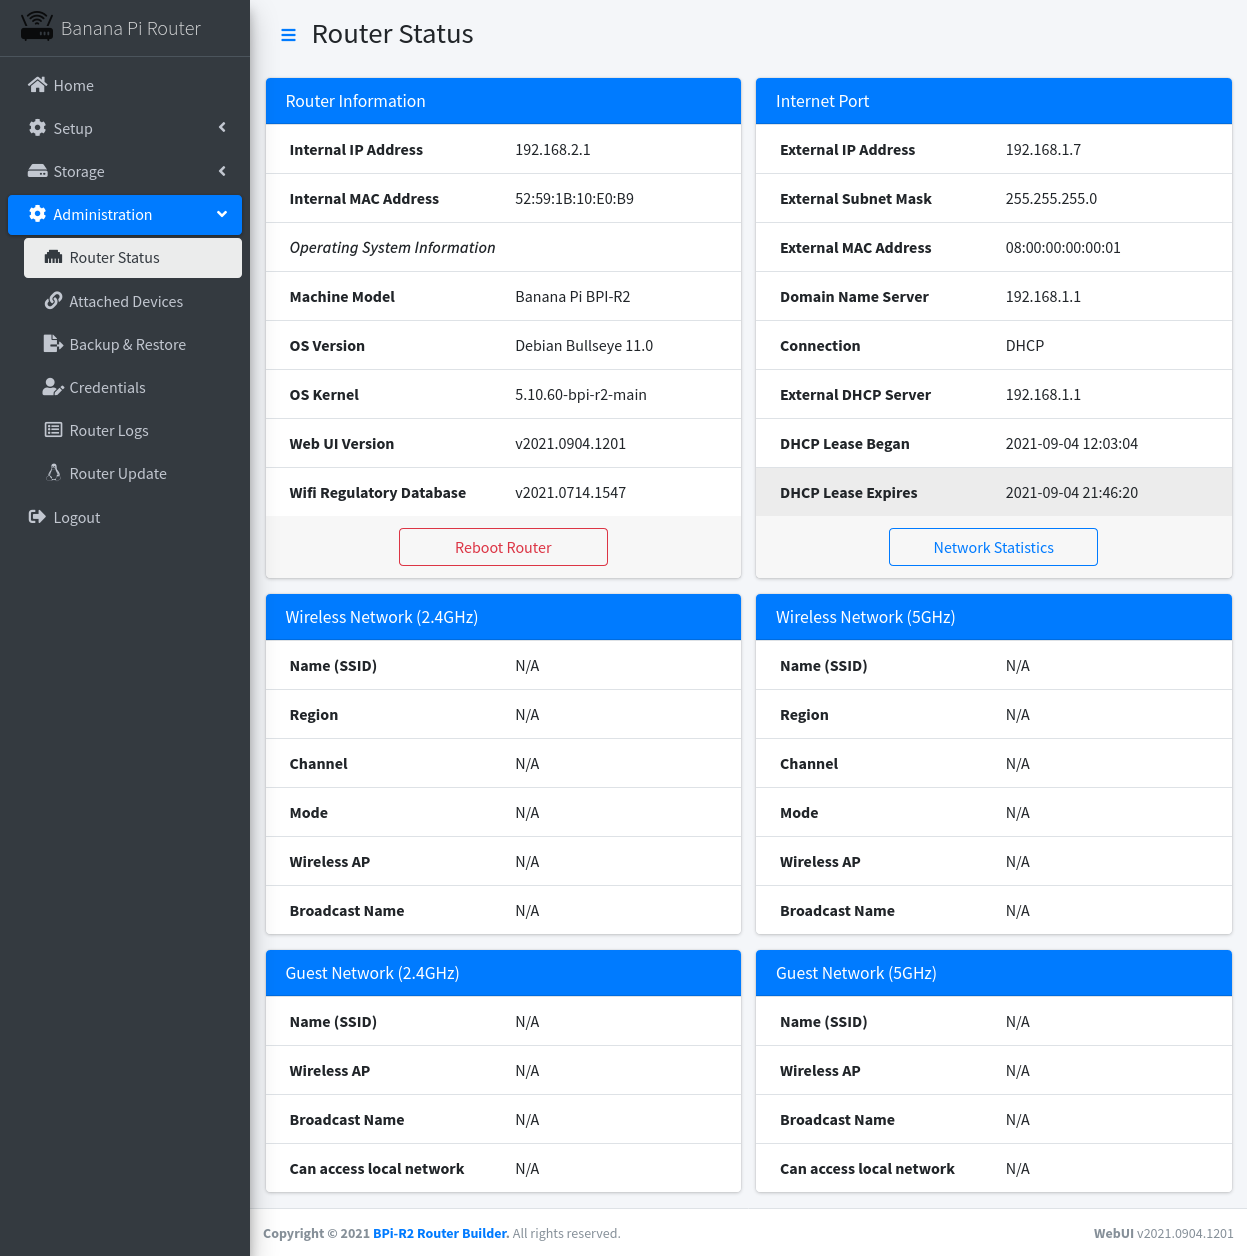
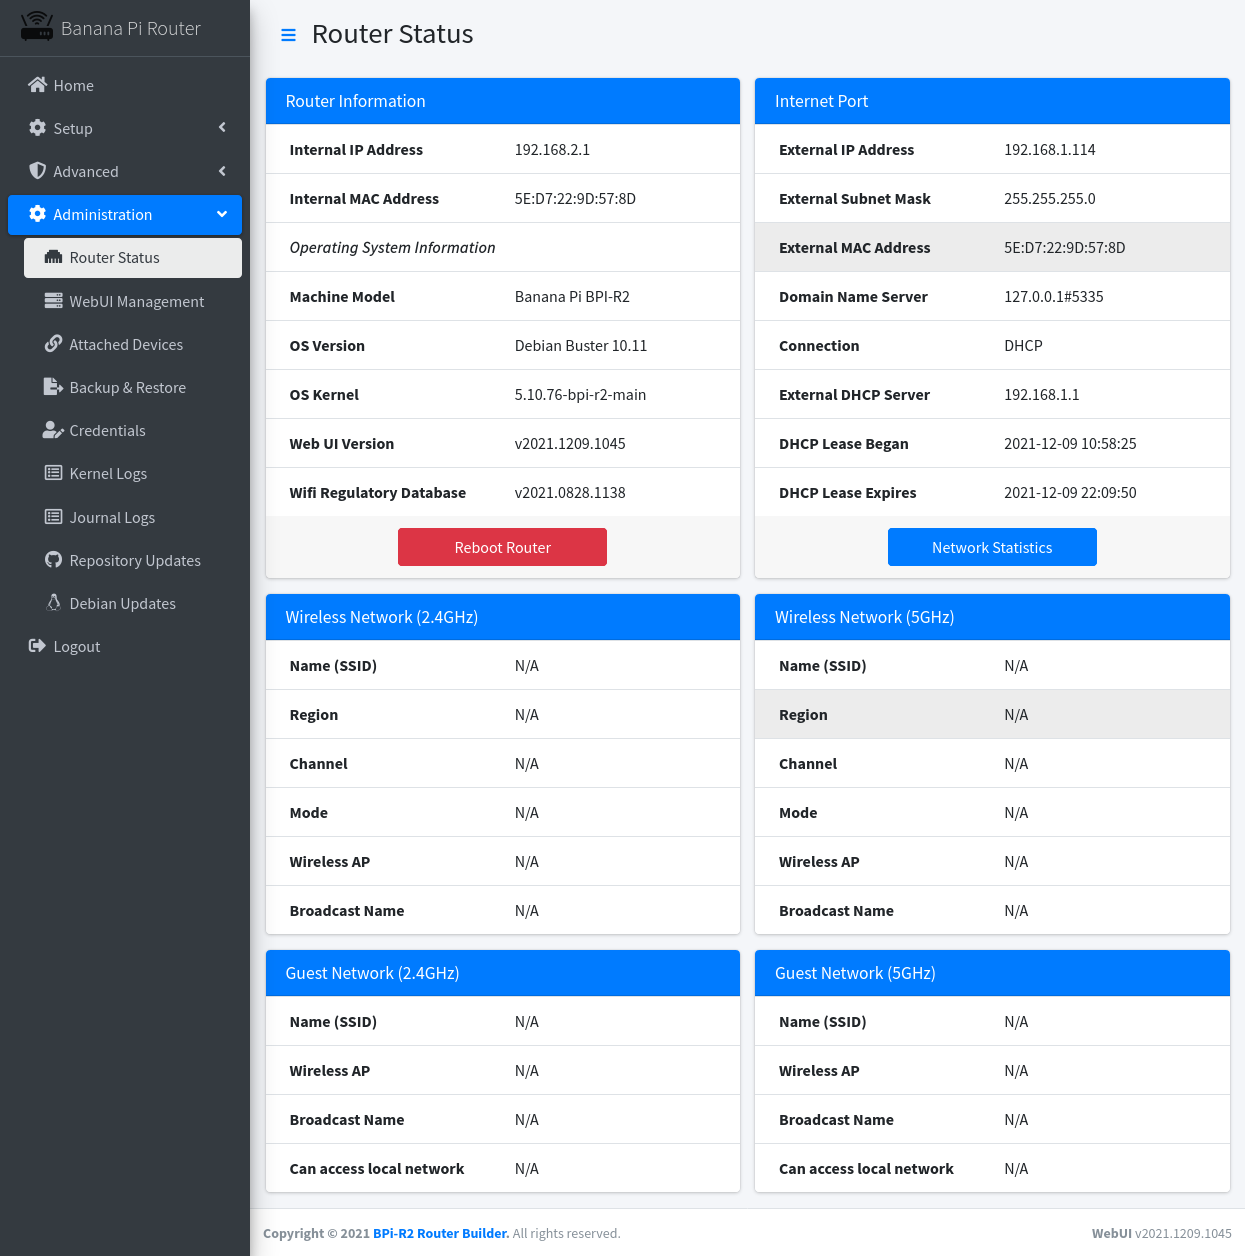
Updated WebUI Admin / Router Status + Admin / Repository Updates

diff --git a/router/js/site.js b/router/js/site.js
@@ -124,7 +124,7 @@ function Reboot_Message()
 	$("#reboot_timer").html('<h1 class="centered">' + txt + '</h1><div class="progress mb-3">' +
 		'<div class="progress-bar bg-info" role="progressbar" aria-valuenow="' + txt + '" aria-valuemin="0" aria-valuemax="' + max_timer + '" style="width: ' + per.toString() + '%"></div></div>');
 	--timer;
-	if (timer <= 0) {
+	if (timer == 0) {
 		clearInterval(MyTimer);
 		document.location.reload(true);
 	}
@@ -133,7 +133,7 @@ function Reboot_Message()
 function Reboot_Confirmed()
 {
 	mode = "";
-	$.get("/admin/status", __postdata("reboot"));
+	$.post("/admin/status", __postdata("reboot"));
 	$("#reboot_control").addClass("hidden");
 	$("#reboot_close").addClass("hidden");
 	max_timer = 120;

diff --git a/router/includes/admin-status.php b/router/includes/admin-status.php
@@ -163,7 +163,7 @@ echo '
 				</div>
 				<!-- /.card-body -->
 				<div class="card-footer">
-					<a href="javascript:void(0);"><button type="button" class="btn btn-block btn-outline-danger center_50" data-toggle="modal" data-target="#reboot-modal" id="reboot_button">Reboot Router</button></a>
+					<a href="javascript:void(0);"><button type="button" class="btn btn-block btn-danger center_50" data-toggle="modal" data-target="#reboot-modal" id="reboot_button">Reboot Router</button></a>
 				</div>
 				<!-- /.card-body -->
 			</div>
@@ -222,7 +222,7 @@ echo '
 				</div>
 				<!-- /.card-body -->
 				<div class="card-footer centered">
-					<a href="javascript:void(0);"><button type="button" class="btn btn-block btn-outline-primary center_50" data-toggle="modal" data-target="#stats-modal" id="stats_button">Network Statistics</button></a>
+					<a href="javascript:void(0);"><button type="button" class="btn btn-block btn-primary center_50" data-toggle="modal" data-target="#stats-modal" id="stats_button">Network Statistics</button></a>
 				</div>
 			</div>
 			<!-- /.card -->

diff --git a/router/includes/admin-repo.php b/router/includes/admin-repo.php
@@ -77,12 +77,12 @@ function show_repo($title, $repo, $url, $alt_desc = null)
 						</tr>
 						<tr id="', $repo, '_check_div">
 							<td colspan="2">
-								<a href="javascript:void(0);"><button type="button" class="btn btn-block btn-outline-info center_50 check_repo" id="', $repo, '_check">Check for Update</button></a>
+								<a href="javascript:void(0);"><button type="button" class="btn btn-block btn-primary center_50 check_repo" id="', $repo, '_check">Check for Update</button></a>
 							</td>
 						</tr>
 						<tr class="hidden" id="', $repo, '_pull_div">
 							<td colspan="2">
-								<a href="javascript:void(0);"><button type="button" class="btn btn-block btn-outline-primary center_50 pull_repo" id="', $repo, '_pull">Pull Updates</button></a>
+								<a href="javascript:void(0);"><button type="button" class="btn btn-block btn-primary center_50 pull_repo" id="', $repo, '_pull">Pull Updates</button></a>
 							</td>
 						</tr>
 					</table>
